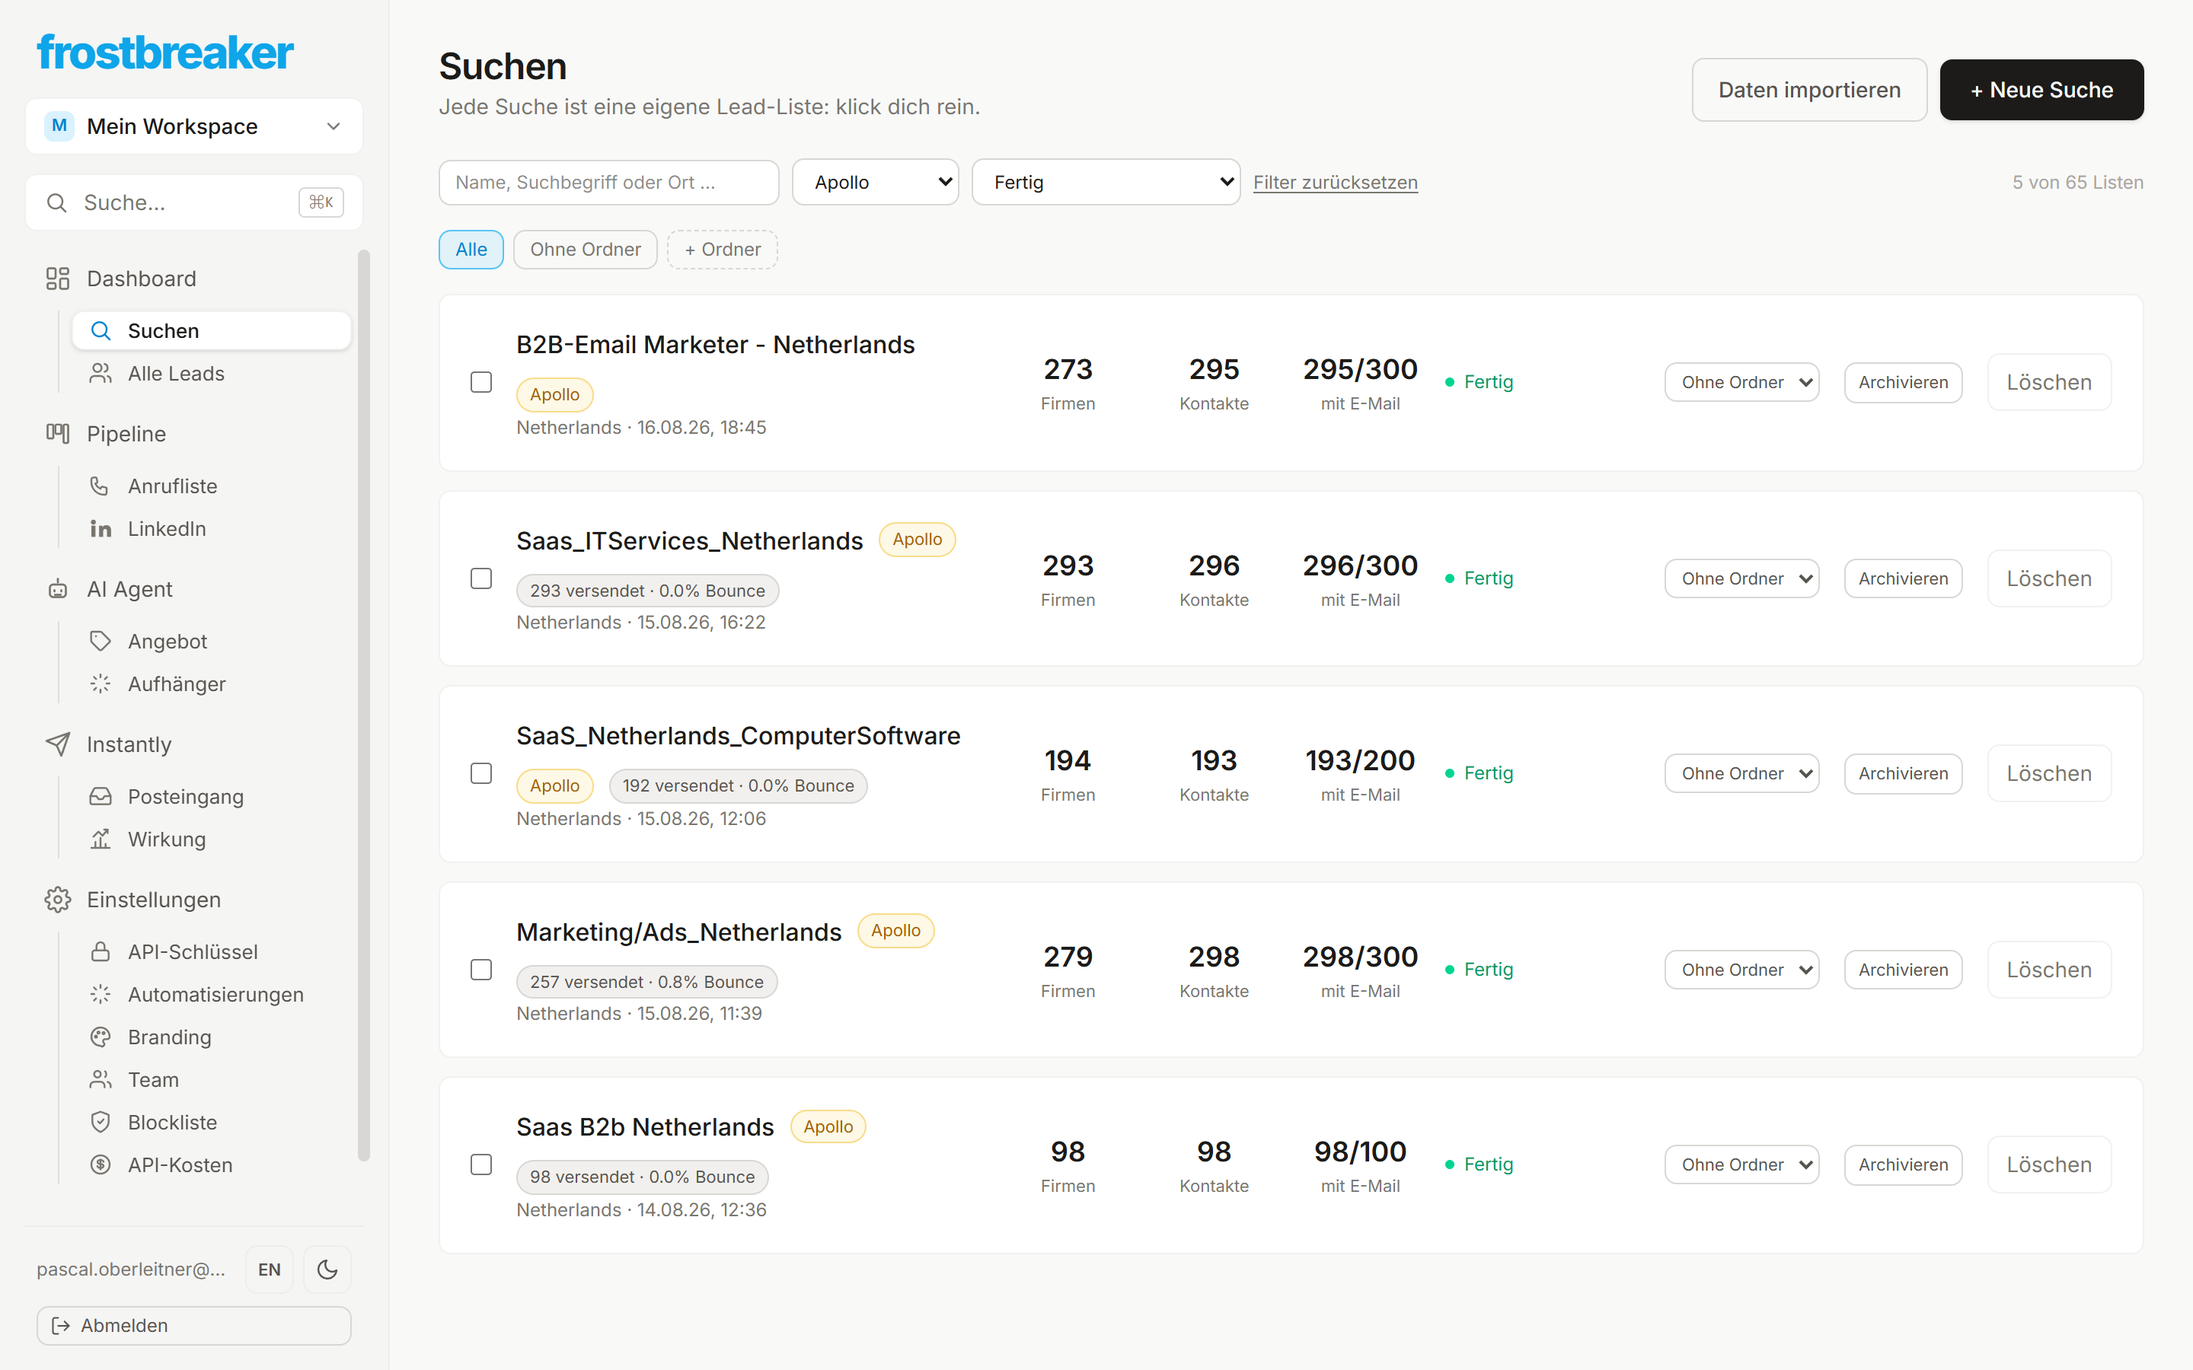
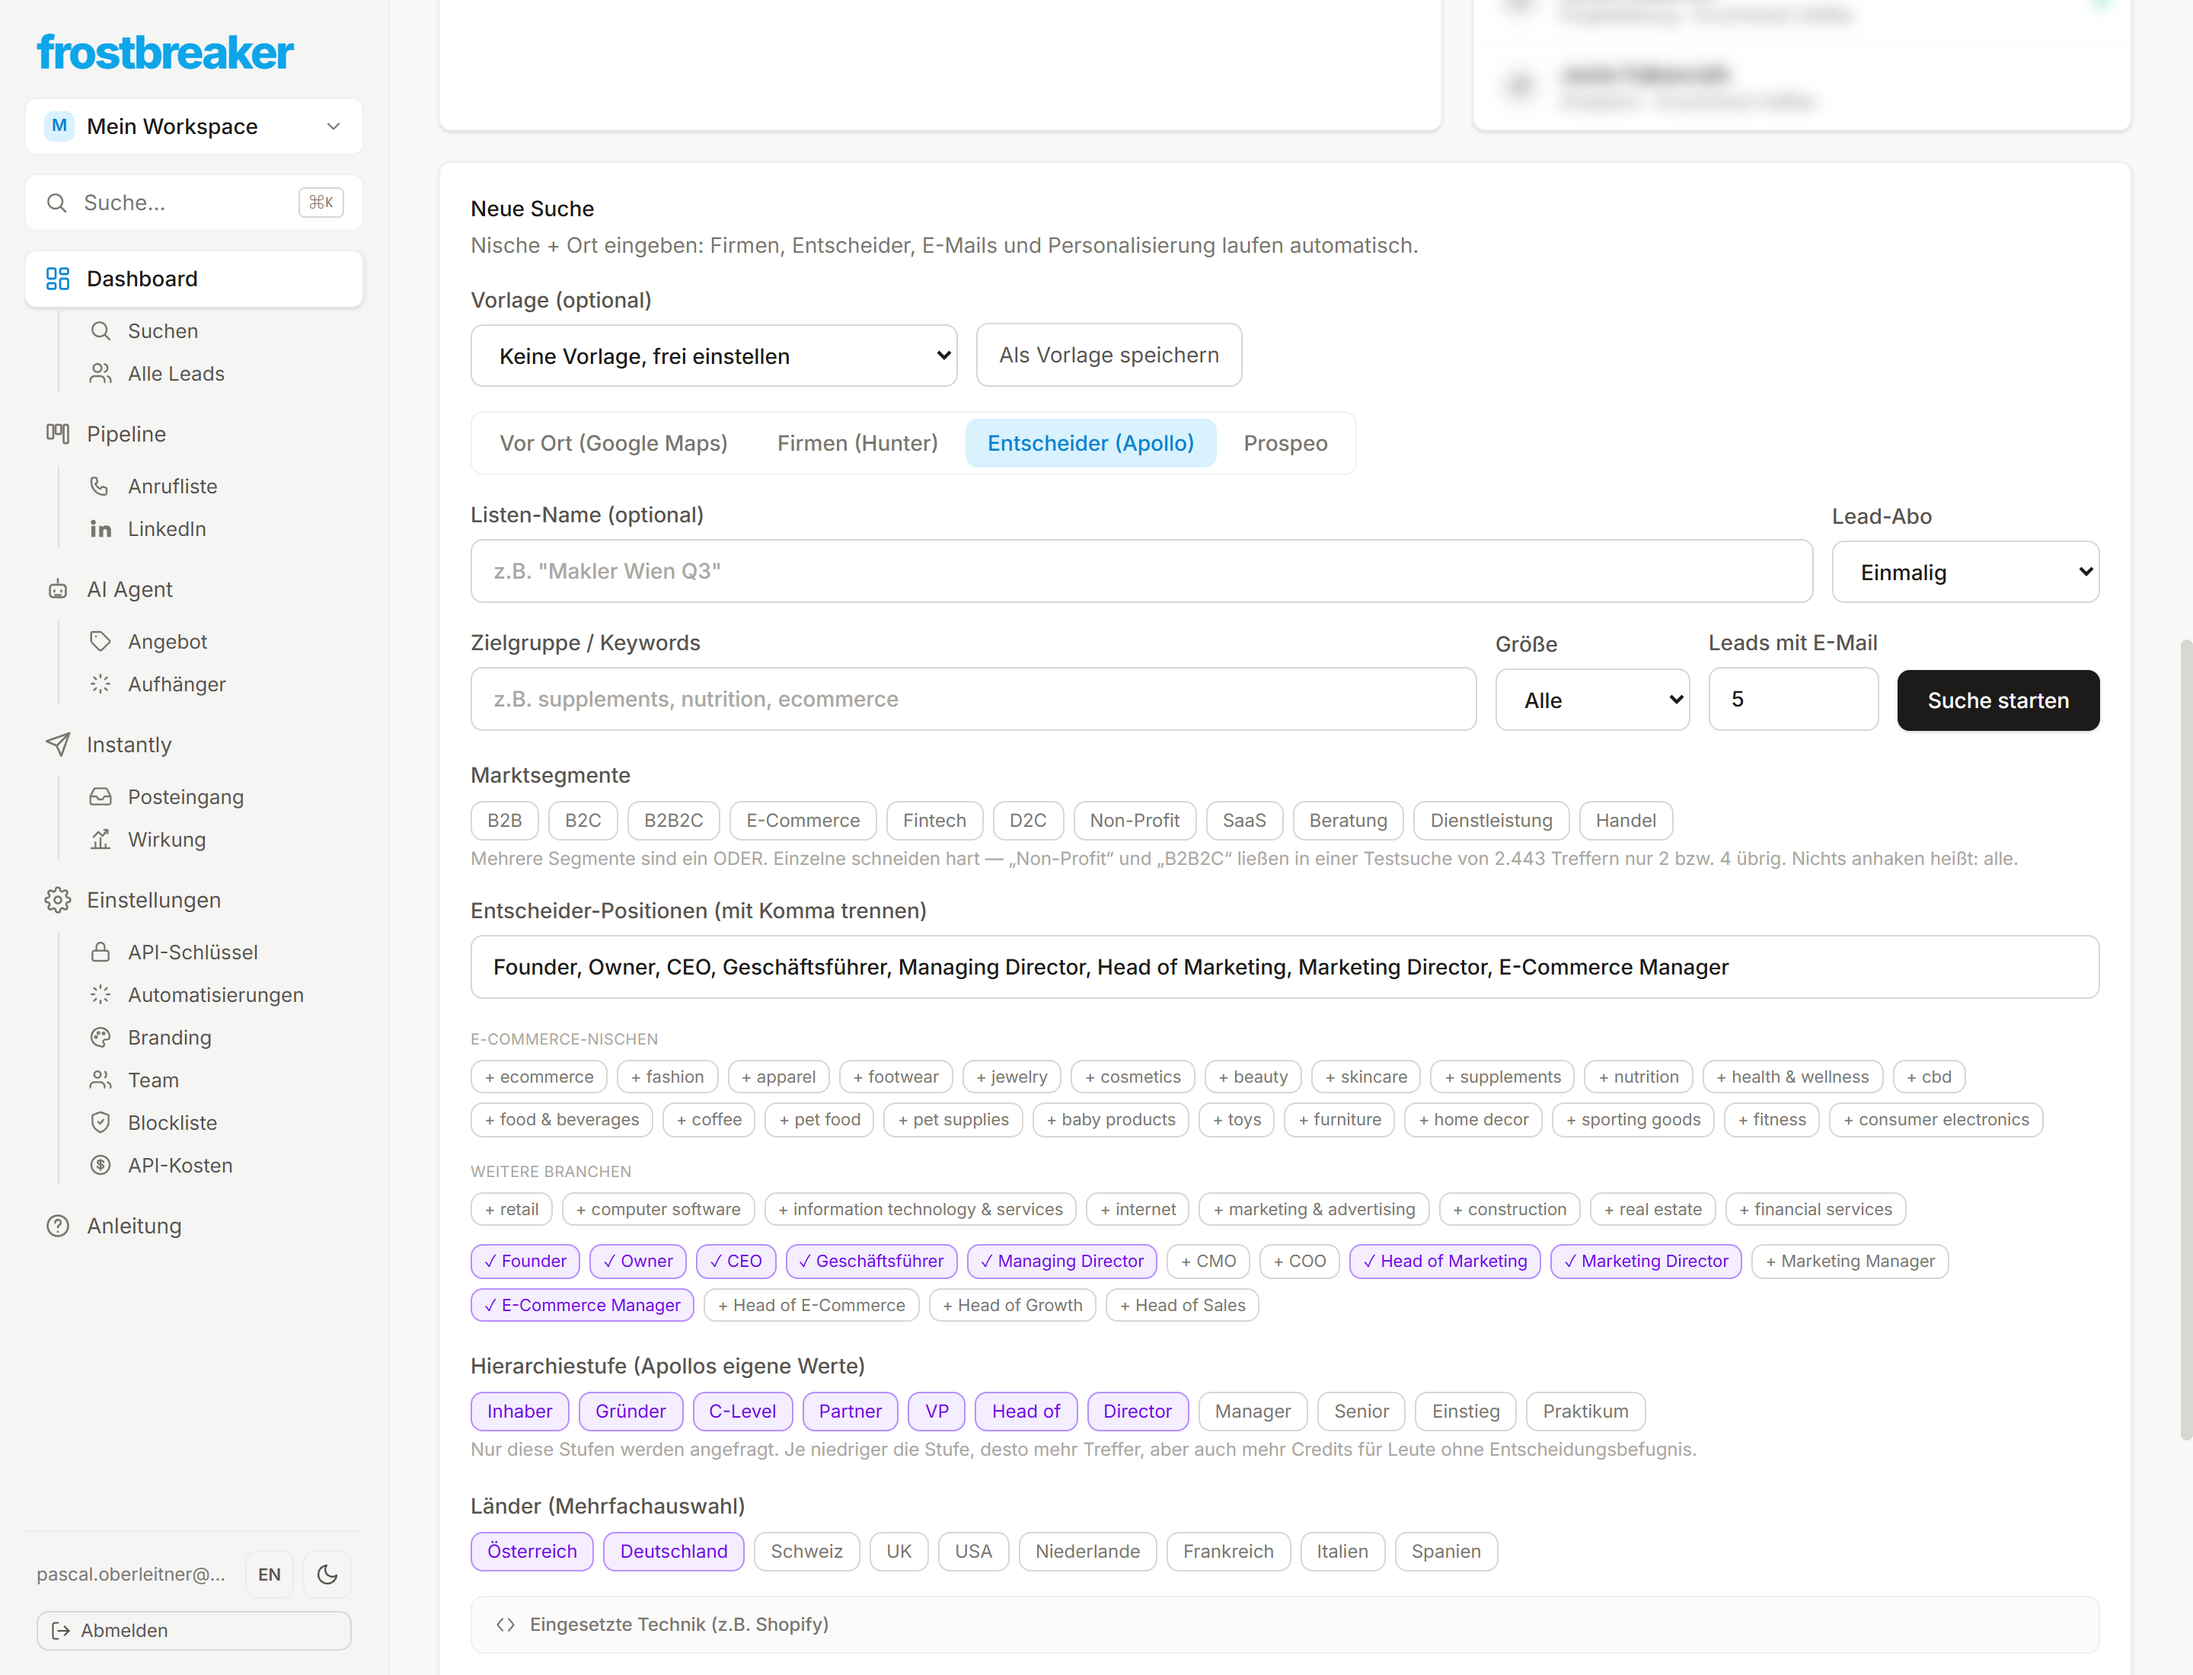
docs(readme): Wie Leads ueberhaupt gefunden werden, und Core und Aim im Betrieb
Drei Luecken geschlossen.

1) DIE LEAD-SUCHE FEHLTE GANZ. Die Galerie zeigte fertige Listen, aber nicht,
   wie man dahin kommt. Jetzt das Suchformular mit den vier Quellen als
   Reiter (Google Maps, Hunter, Apollo, Prospeo) und den Filtern darunter:
   Nische, Marktsegment, Entscheider-Positionen, Hierarchiestufe, Land,
   Firmengroesse, eingesetzte Technik. Die fertigen Listen bleiben als
   zweites Bild, auf abgeschlossene Apollo-Suchen gefiltert.

2) CORE UND AIM STANDEN IM LEERZUSTAND. Beide Bilder sind ersetzt durch
   echte Laeufe aus dem Konto. Core mit gefuelltem Website-Feld, dem
   Vollstaendigkeitsring auf 100 % und seiner Pruefung unter dem Feld ("Dein
   Kernsatz hat 102 Woerter, in 15 Sekunden sagt man rund 38"). Aim mit einem
   echten Lauf gegen die Liste "Maps_Recruitment & Lead Gen Agencies,
   Amsterdam": der Vorschlag steht unter seinem Feld, mit der Liste als
   Quelle daneben und den beiden Knoepfen Uebernehmen und Verwerfen.

   Das war nur in einer laufenden Sitzung zu bekommen. Die Vorschlaege
   ueberleben kein Neuladen, also musste Klick, Wartezeit und Aufnahme in
   einem Zug passieren.

3) FASTAPI RAUS. docs/CASE-STUDY-FROSTBREAKER.md nannte ein
   FastAPI-Backend als aktiven Teil des Systems. Laut docs/BETRIEB.md ist
   apps/api tot und wird von nirgendwo aufgerufen. Der Satz nennt jetzt, was
   tatsaechlich laeuft: Next.js samt aller API-Routen plus den Python-Worker.

diff --git a/README.md b/README.md
@@ -22,8 +22,10 @@ Satz ist jeweils der wichtigere.
 
 ### 1 · Zielgruppe: Entscheider statt Sammeladressen
 
-Suchen nach Nische, Ort, Größe, oder nach der **eingesetzten Technik** und
-nach **offenen Stellen**. Vier Quellen, je nachdem was gesucht wird.
+Vier Quellen als Reiter, je nachdem was gesucht wird: **Google Maps** für
+alles mit Adresse, **Hunter** für Firmen, **Apollo** für Entscheider,
+**Prospeo** für den Anlass. Gefiltert wird nach Nische, Marktsegment,
+Position, Hierarchiestufe, Land, Firmengröße und der **eingesetzten Technik**.
 
 > Wer gerade jemanden für ein Problem sucht, hat es *jetzt* und nicht
 > irgendwann. Das trifft besser als jede Branchenliste. Und Adressen wie
@@ -31,6 +33,11 @@ nach **offenen Stellen**. Vier Quellen, je nachdem was gesucht wird.
 > ist, schreibt man nicht kalt an.
 
 ![Neue Suche](docs/screenshots/02-suche.png)
+
+Jede Suche wird eine eigene Liste, mit Trefferzahl, Adressquote und
+Bounce-Rate daneben.
+
+![Lead-Listen](docs/screenshots/02b-listen.png)
 
 ### 2 · Aus der Suche wird eine Liste mit Namen
 
@@ -57,7 +64,9 @@ den Text, sondern ob jedes Feld seine Frage überhaupt beantwortet.
 
 Vier Felder bleiben bewusst leer, weil sie nicht auf der Website stehen,
 sondern Entscheidungen sind: was ich schicke, wie lange es dauert, meine eine
-Frage und der Ton.
+Frage und der Ton. Der Ring rechts zeigt, wie weit das Angebot gefüllt ist,
+und Cores Prüfung meldet sich direkt unter dem Feld: *„Dein Kernsatz hat 102
+Wörter, in 15 Sekunden sagt man rund 38."*
 
 ![Angebot](docs/screenshots/04-angebot.png)
 
@@ -82,6 +91,10 @@ umformuliert. **Zahlen und Beleg bleiben unangetastet.**
 
 Beide halten dieselbe Grenze ein: **was im Material nicht steht, bleibt leer.**
 Kein Modell erfindet hier eine Referenz oder eine Zahl.
+
+Unten der echte Lauf gegen eine meiner Listen. Der Vorschlag steht unter
+seinem Feld, mit der Liste als Quelle daneben, und ich entscheide einzeln:
+*Übernehmen* oder *Verwerfen*. Nichts wird automatisch geändert.
 
 ![Aim](docs/screenshots/05-aim.png)
 

diff --git a/docs/CASE-STUDY-FROSTBREAKER.md b/docs/CASE-STUDY-FROSTBREAKER.md
@@ -39,9 +39,9 @@ Anbieter-Lock-in, jeder zahlt nur echte Nutzung.
 
 ## Technik
 
-- **Next.js**-Frontend, **FastAPI**-Backend, eigener **Python-Worker** für
-  asynchrone Pipelines mit eigener Postgres-basierter Job-Queue (kein Redis
-  nötig: eine Kostenentscheidung, keine Notlösung)
+- **Next.js**-Frontend samt aller API-Routen, dazu ein eigener
+  **Python-Worker** für asynchrone Pipelines mit eigener Postgres-basierter
+  Job-Queue (kein Redis nötig: eine Kostenentscheidung, keine Notlösung)
 - **Supabase** (Postgres + Auth + Row-Level-Security), EU-Hosting
   (Frankfurt), 49 Schema-Migrationen in drei Wochen, sauber versioniert
 - Verschlüsselte Speicherung nutzerspezifischer API-Keys
